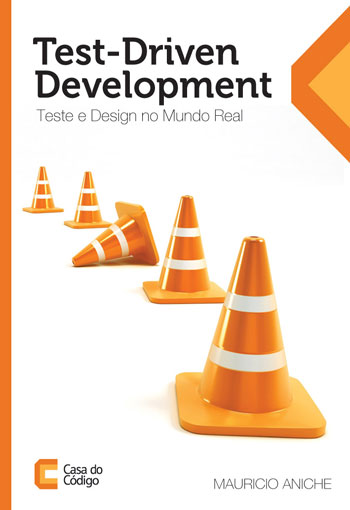
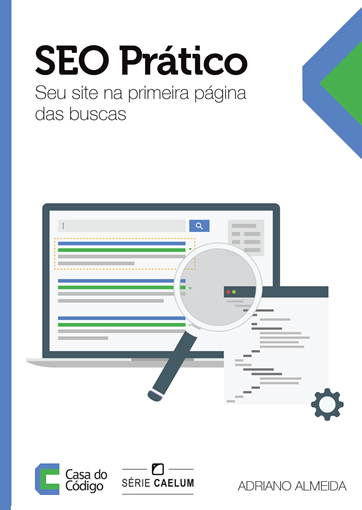
site inicial

diff --git a/public/index.html b/public/index.html
@@ -42,11 +42,11 @@
 
     <header>
     	<div class="container">
-	    	<p id=chamada>É hora de escrever código com qualidade!</p>
+	    	<p id=chamada>Faça seu site aparecer bem no Google!</p>
 	    	
 	    	<hgroup>
-	    		<h1>Test-Driven Development</h1>
-				<h2>Teste e Design no Mundo Real</h2>
+	    		<h1>SEO Prático</h1>
+				<h2>Seu site na primeira página das buscas</h2>
 	    	</hgroup>
 	    	
 	    	<img src="img/capa-livro.jpg" alt="Capa do livro">
@@ -56,7 +56,7 @@
 	    	</div>
 	    	
 	    	<div class=compreja>
-		    	<a class="nicebutton" href="http://www.casadocodigo.com.br/products/tdd">Comprar o livro na Casa do Código</a>
+		    	<a class="nicebutton" href="http://www.casadocodigo.com.br/products/livro-seo">Comprar o livro na Casa do Código</a>
 	    	</div>
     	</div>
     </header>
@@ -65,203 +65,30 @@
 
 		<div id=texto>
 			<p>
-				Por que não testamos software? Por que é caro? Por que é demorado? Por que é chato? Testes automatizados são a solução para todos esses problemas. Aprenda a escrever um programa que testa seu programa de forma rápida, barata e produtiva, e aumente a qualidade do seu produto final.	
+				Hoje em dia, ter um site não basta para que seu negócio online prospere. Seja o site de uma loja online, um portfolio de trabalhos realizados, um blog ou uma página corporativa, se você quer atrair novos acessos e potenciais novos clientes para seus sites, <strong>você precisa aparecer bem nas buscas do Google e demais buscadores</strong>. E é justamente como fazer isso que esse livro te ensina!
 			</p>
 			<p>
-
-				Neste livro, você aprenderá sobre TDD, uma das práticas ágeis de desenvolvimento de software mais populares. TDD faz o desenvolvedor escrever o teste antes mesmo de implementar o código. Essa simples inversão na maneira de se trabalhar, faz com o que o desenvolvedor escreva código mais testado, com menos bugs, e inclusive com mais qualidade. Seja profissional, teste seu software!
+				Adriano Almeida, fundador da Casa do Código e que trabalha há diversos anos com SEO - Search Engine Optimization, vai te ensinar diversas técnicas que farão com que seu site tenha um grande diferencial para atingir um bom rankeamento.
 			</p>
 		</div>
 		<div id=publico>
-			<h1>Para quem é o livro</h1>
+			<h1>O que vou aprender?</h1>
 			<p>
-				
-				Esse livro é destinado a desenvolvedores que querem aprender a escrever testes de maneira eficiente,
-				e que desejam aprender a como melhorar ainda mais o código que produzem. Neste livro, utilizamos
-				Java para demonstrar os conceitos discutidos, mas você pode facilmente levar as discussões feitas
-				aqui para a sua linguagem de programação favorita. Mesmo que você já pratique TDD, tenho certeza
-				que aqui encontrará discussões interessantes sobre como a prática dá feedback sobre problemas
-				de acoplamento e coesão, bem como técnicas para escrever testes melhores e mais fáceis de 
-				serem mantidos.
+				Esse livro é para qualquer pessoa que trabalhe com web ou tenha um negócio online e nele você vai:
 			</p>
-			
-			<p>
-				Apesar dos exemplos do livro usarem Java, as discussões independem de tecnologia. Ou seja,
-				se você é programador C#, Ruby, Scala, ou qualquer outra linguagem, se beneficiará também
-				das discussões.
-			</p>
+			<ul>
+					<li>Entender como funcionam as buscas;</li>
+					<li>Saber como fazer um processo de keyword research e decidir quais termos você deve rankear bem;</li>
+					<li>Aprender a fazer otimizações SEO Onpage, otimizando o HTML de suas páginas</li>
+					<li>Fazer SEO Offpage e também um processo robusto de link building;</li>
+					<li>Conhecer a importância de fatores como tempo de carregamento, usabilidade, site mobile e vários outros;</li>
+					<li>Veja o <a href="http://www.casadocodigo.com.br/pages/sumario-seo" target="_blank">sumário completo e um trecho do livro de SEO</a>.</li>
+				</ul>
 		</div>
-	</section>
-	
-	<section id=conteudo>
-		<h1 class=container>Conteúdo</h1>
-		
-		<ol>
-
-			<li>
-			Introdução
-			<ol>
-			   <li>Era uma vez um projeto sem testes...</li>
-			   <li>Por que devemos testar?</li>
-			   <li>Por que não testamos?</li>
-			   <li>Testes automatizados e TDD</li>
-			   <li>Conclusão</li>
-			</ol>
-			</li>
-
-			<li>
-			Testes de Unidade
-			<ol>
-			   <li>O que é um teste de unidade?</li>
-			   <li>Preciso mesmo escrevê-los?</li>
-			   <li>O Primeiro Teste de Unidade</li>
-			   <li>Continuando a testar</li>
-			   <li>Conclusão</li>
-			</ol>
-			</li>
-			
-			<li>
-			Introdução ao Test-Driven Development
-			<ol>
-			   <li>O problema dos números romanos</li>
-			   <li>O primeiro teste</li>
-			   <li>Refletindo sobre o assunto</li>
-			   <li>Quais as vantagens?</li>
-			   <li>Um pouco da história de TDD</li>
-			   <li>Conclusão</li>
-			</ol>
-			</li>
-			
-			<li>
-			Simplicidade e Baby Steps
-			
-			<ol>
-			   <li>O Problema do Cálculo de Salário</li>
-			   <li>Implementando da maneira mais simples possível</li>
-			   <li>Passos de Bebê (ou Baby Steps)</li>
-			   <li>Usando baby steps de maneira consciente</li>
-			   <li>Conclusão</li>
-			</ol>
-			</li>
-			
-			<li>
-			TDD e Design de Classes
-			<ol>
-			   <li>O Problema do Carrinho de Compras</li>
-			   <li>Testes que influenciam no design de classes</li>
-			   <li>Diferenças entre TDD e testes da maneira tradicional</li>
-			   <li>Testes como rascunho</li>
-			   <li>Conclusão</li>
-			</ol>
-			</li>
-			
-			<li>
-			   Qualidade no Código do Teste
-			<ol>
-			   <li>Repetição de código entre testes</li>
-			   <li>Nomenclatura dos testes</li>
-			   <li>Test Data Builders</li>
-			   <li>Testes Repetidos</li>
-			   <li>Escrevendo boas asserções</li>
-			   <li>Testando listas</li>
-			   <li>Separando as Classes de Teste</li>
-			   <li>Conclusão</li>
-			</ol>
-			</li>
-			
-			<li>
-			TDD e a Coesão
-			<ol>
-			   <li>Novamente o Problema do Cálculo de Salário</li>
-			   <li>Ouvindo o feedback dos testes</li>
-			   <li>Testes em métodos privados?</li>
-			   <li>Resolvendo o Problema da Calculadora de Salário</li>
-			   <li>O que olhar no teste em relação a coesão?</li>
-			   <li>Conclusão</li>
-			</ol>
-			</li>
-			
-			<li>
-			TDD e o Acoplamento
-			<ol>
-			   <li>O Problema da Nota Fiscal</li>
-			   <li>Mock Objects</li>
-			   <li>Dependências explícitas</li>
-			   <li>Ouvindo o feedback dos testes</li>
-			   <li>Classes estáveis</li>
-			   <li>Resolvendo o Problema da Nota Fiscal</li>
-			   <li>Testando métodos estáticos</li>
-			   <li>TDD e a constante criação de interfaces</li>
-			   <li>O que olhar no teste em relação ao acoplamento?</li>
-			   <li>Conclusão</li>
-			</ol>
-			</li>
-			
-			<li>
-			   TDD e o Encapsulamento
-			   <ol>
-			   <li>O Problema do Processador de Boleto</li>
-			   <li>Ouvindo o feedback dos testes</li>
-			   <li>Tell, Don't Ask e Lei de Demeter</li>
-			   <li>Resolvendo o Problema do Processador de Boletos</li>
-			   <li>O que olhar no teste em relação ao encapsulamento?</li>
-			   <li>Conclusão</li>
-			   </ol>
-			</li>
-			
-			<li>
-			Testes de Integração e TDD
-			   <ol>
-			   <li>Testes de unidade, integração e sistema</li>
-			   <li>Quando não usar mocks?</li>
-			   <li>Testes em DAOs</li>
-			   <li>Devo usar TDD em testes de integração?</li>
-			   <li>Testes em aplicações Web</li>
-			   <li>Conclusão</li>
-			   </ol>
-			</li>
-			
-			<li>
-			Quando não usar TDD?
-			   <ol>
-			   <li>Quando não praticar TDD?</li>
-			   <li>100% de cobertura de código?</li>
-			   <li>Devo testar códigos simples?</li>
-			   <li>Erros comuns durante a prática de TDD</li>
-			   <li>Como convencer seu chefe sobre TDD?</li>
-			   <li>TDD em Sistemas Legados</li>
-			   <li>Conclusão</li>
-			   </ol>
-			</li>
-			
-			<li>
-			E agora?
-			   <ol>
-			   <li>O que ler agora?</li>
-			   <li>Dificuldade no aprendizado</li>
-			   <li>Como interagir com outros praticantes?</li>
-			   <li>Conclusão Final</li>
-			  </ol>
-			</li>
-			
-			<li>
-			  Apêndice: Princípios SOLID
-				<ol>
-			   <li>Sintomas de Projetos de Classes em Degradação</li>
-			   <li>Princípios de Projeto de Classes</li>
-			   <li>Conclusão</li>
-			  </ol>
-			</li>
-		</ol>
-
-    	<div class=compreja>
-	    	<a class="nicebutton" href="http://www.casadocodigo.com.br/products/tdd">Comprar o livro na Casa do Código</a>
-	    	<p>O livro também está disponível em PDF, MOBI e EPUB.</p>
-    	</div>
 	</section>
 
 	<div id=tectura>
-		<p><a href="http://groups.google.com/forum/?fromgroups#!forum/tdd-no-mundo-real">Continue a discussão no fórum do Google Groups junto com o autor!</a></p>
+		<p><a href="https://groups.google.com/d/forum/livro-seo-pratico">Tire suas dúvidas de SEO junto com o autor!</a></p>
 	</div>
 
 	<section id=autores>
@@ -301,9 +128,8 @@ Além disso, é coautor do livro de Lógica de Programação, também lançado p
 	    		<li><a href="mailto:adriano.almeida@caelum.com.br">Fale com o autor</a></li>
 	    		<li class=maior><a href="https://groups.google.com/d/forum/livro-seo-pratico">Fórum de discussões</a></li>
 	    		
-	    		<li><a href="#conteudo">Conteúdo</a></li>
-	    		<li><a href="#publico">Para quem é o livro</a></li>
-	    		<li class=maior><a href="#autores">Sobre os autor</a></li>
+	    		<li><a href="#publico">O que vou aprender?</a></li>
+	    		<li class=maior><a href="#autores">Sobre o autor</a></li>
 
 	    		<li><a id="versao" href="#">Forçar Site Desktop</a></li>
 	    	</ul>

diff --git a/public/css/style.css b/public/css/style.css
@@ -599,7 +599,7 @@ section,
 }
 ::-moz-selection,
 ::selection {
-  background: #ee7725;
+  background: #5881C1;
   color: #fff;
   text-shadow: none;
 }
@@ -614,13 +614,17 @@ body {
   font-family: Arial, Helvetica Neue, Helvetica, sans-serif;
   position: relative;
 }
-p {
+p, #publico ul li {
   font-family: Georgia, Cambria, Times, Times New Roman, serif;
   font-size: 1em;
   line-height: 1.4em;
   margin-top: 0;
   margin-bottom: 1em;
   padding: 0 1em;
+}
+
+#publico ul li {
+  font-size: 0.9em;
 }
 header #chamada,
 header h1,
@@ -710,7 +714,7 @@ header img {
   box-shadow: 0 0 5px #888;
 }
 header #logos {
-  background: #ee7725;
+  background: #5881C1;
   text-align: center;
 }
 header #logos a {
@@ -745,7 +749,7 @@ header #logos a[href='http://www.caelum.com.br'] {
   text-shadow: 0px -1px 1px rgba(200, 200, 200, 0.5);
 }
 .compreja .nicebutton {
-  background: #ff7f00;
+  background: #5881C1;
   color: white;
   font-size: 1.5em;
   font-weight: normal;
@@ -777,7 +781,7 @@ iframe.twitter-share-button {
   visibility: visible;
 }
 #curso {
-  background: #ee7725;
+  background: #5881C1;
   margin: 1.5em 0 0 0;
   width: 100%;
 }
@@ -844,7 +848,7 @@ iframe.twitter-share-button {
   font-size: 1.30em;
 }
 #outroscursos {
-  background: #ee7725;
+  background: #5881C1;
   padding: 10px 0;
   text-align: center;
 }
@@ -946,7 +950,7 @@ section h1:before {
   margin: 0;
 }
 #conteudo ol a {
-  color: #ee7725;
+  color: #5881C1;
 }
 #conteudo ol a:visited {
   color: #805070;
@@ -958,7 +962,7 @@ section h1:before {
   margin-top: 2em;
 }
 #tectura {
-  background: #ee7725;
+  background: #5881C1;
   margin-top: 0;
   margin-bottom: 30px;
 }
@@ -1012,7 +1016,7 @@ section h1:before {
   text-align: center;
 }
 #autores #falecom a {
-  color: #ee7725;
+  color: #5881C1;
   word-wrap: break-word;
 }
 #autores #falecom a:hover {
@@ -1039,7 +1043,7 @@ section h1:before {
   width: 100% !important;
 }
 footer {
-  background: #ee7725;
+  background: #5881C1;
   clear: both;
   margin: 0;
   padding: 1em 0;
@@ -1572,7 +1576,7 @@ footer #logos a[href='http://www.caelum.com.br'] {
     height: 90px;
   }
   header:after {
-    background: #ee7725;
+    background: #5881C1;
     bottom: 0;
     content: ' ';
     right: 0;
